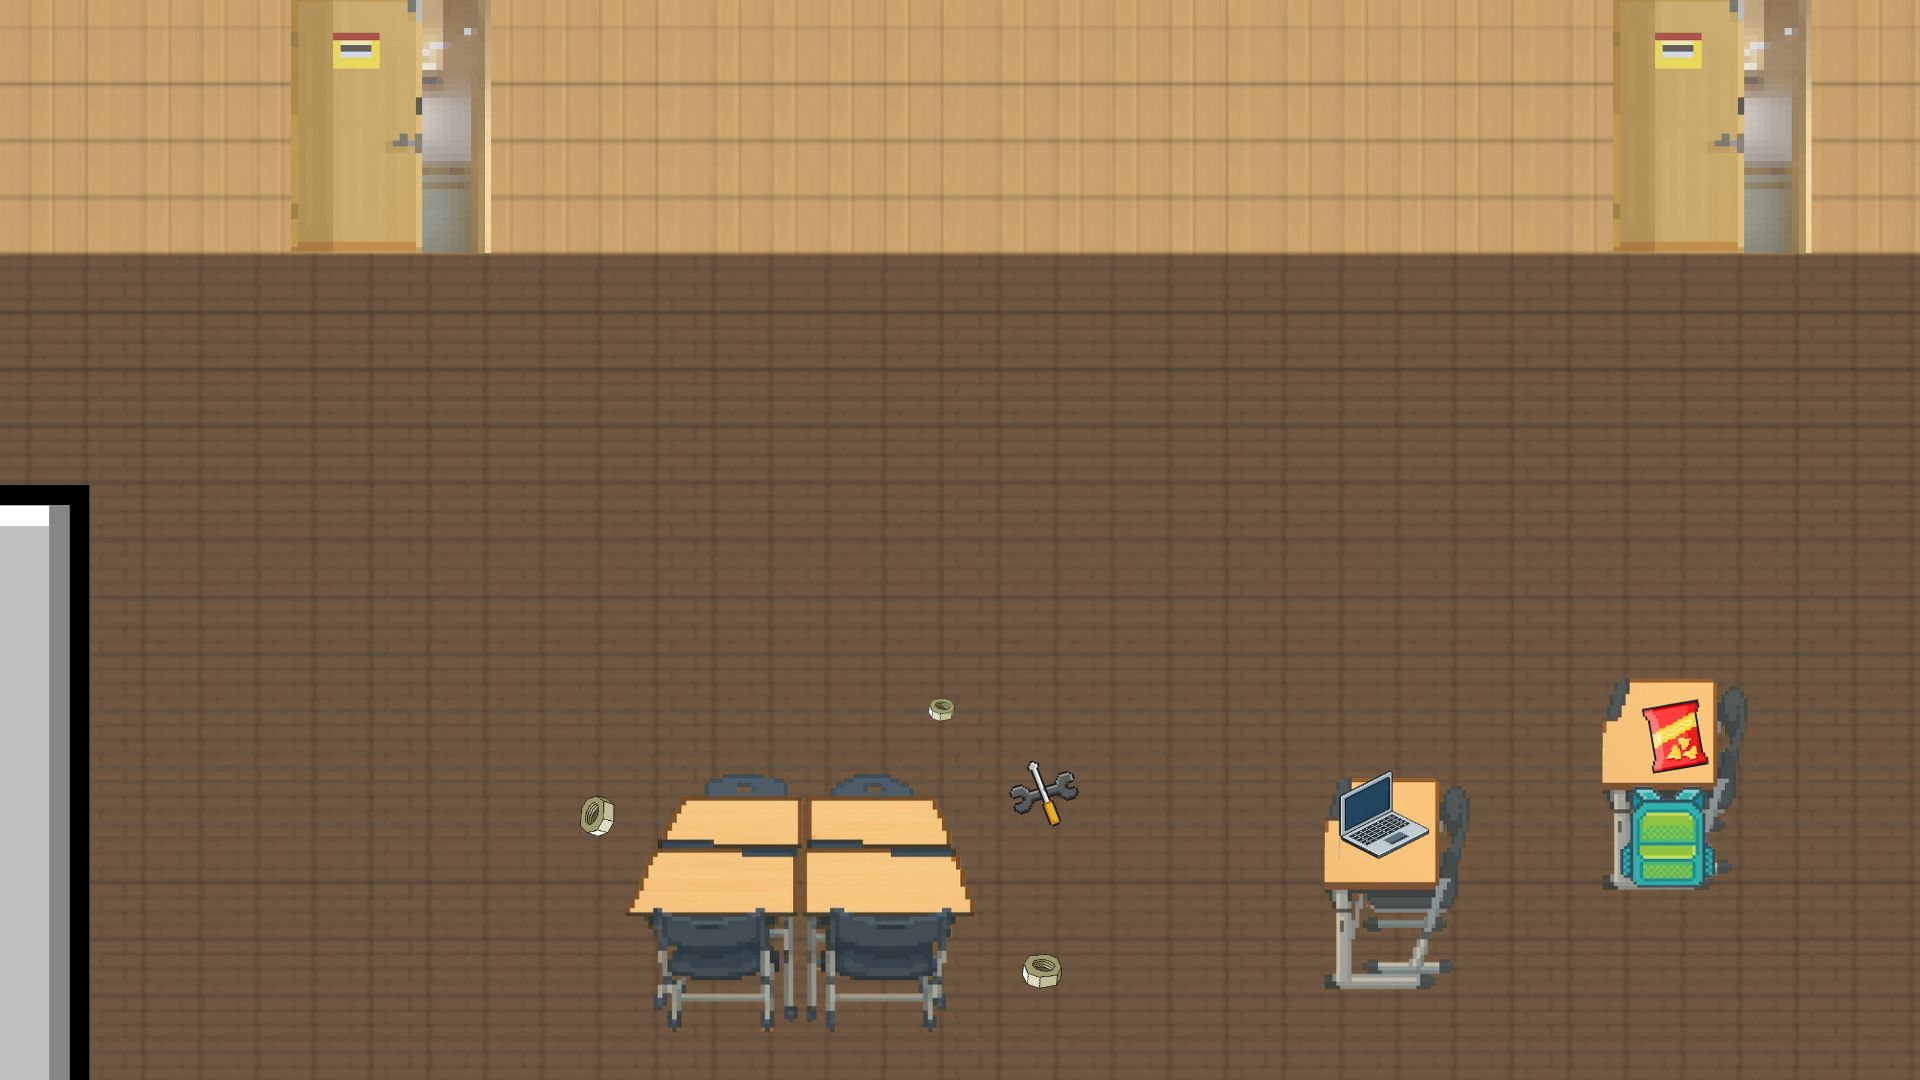
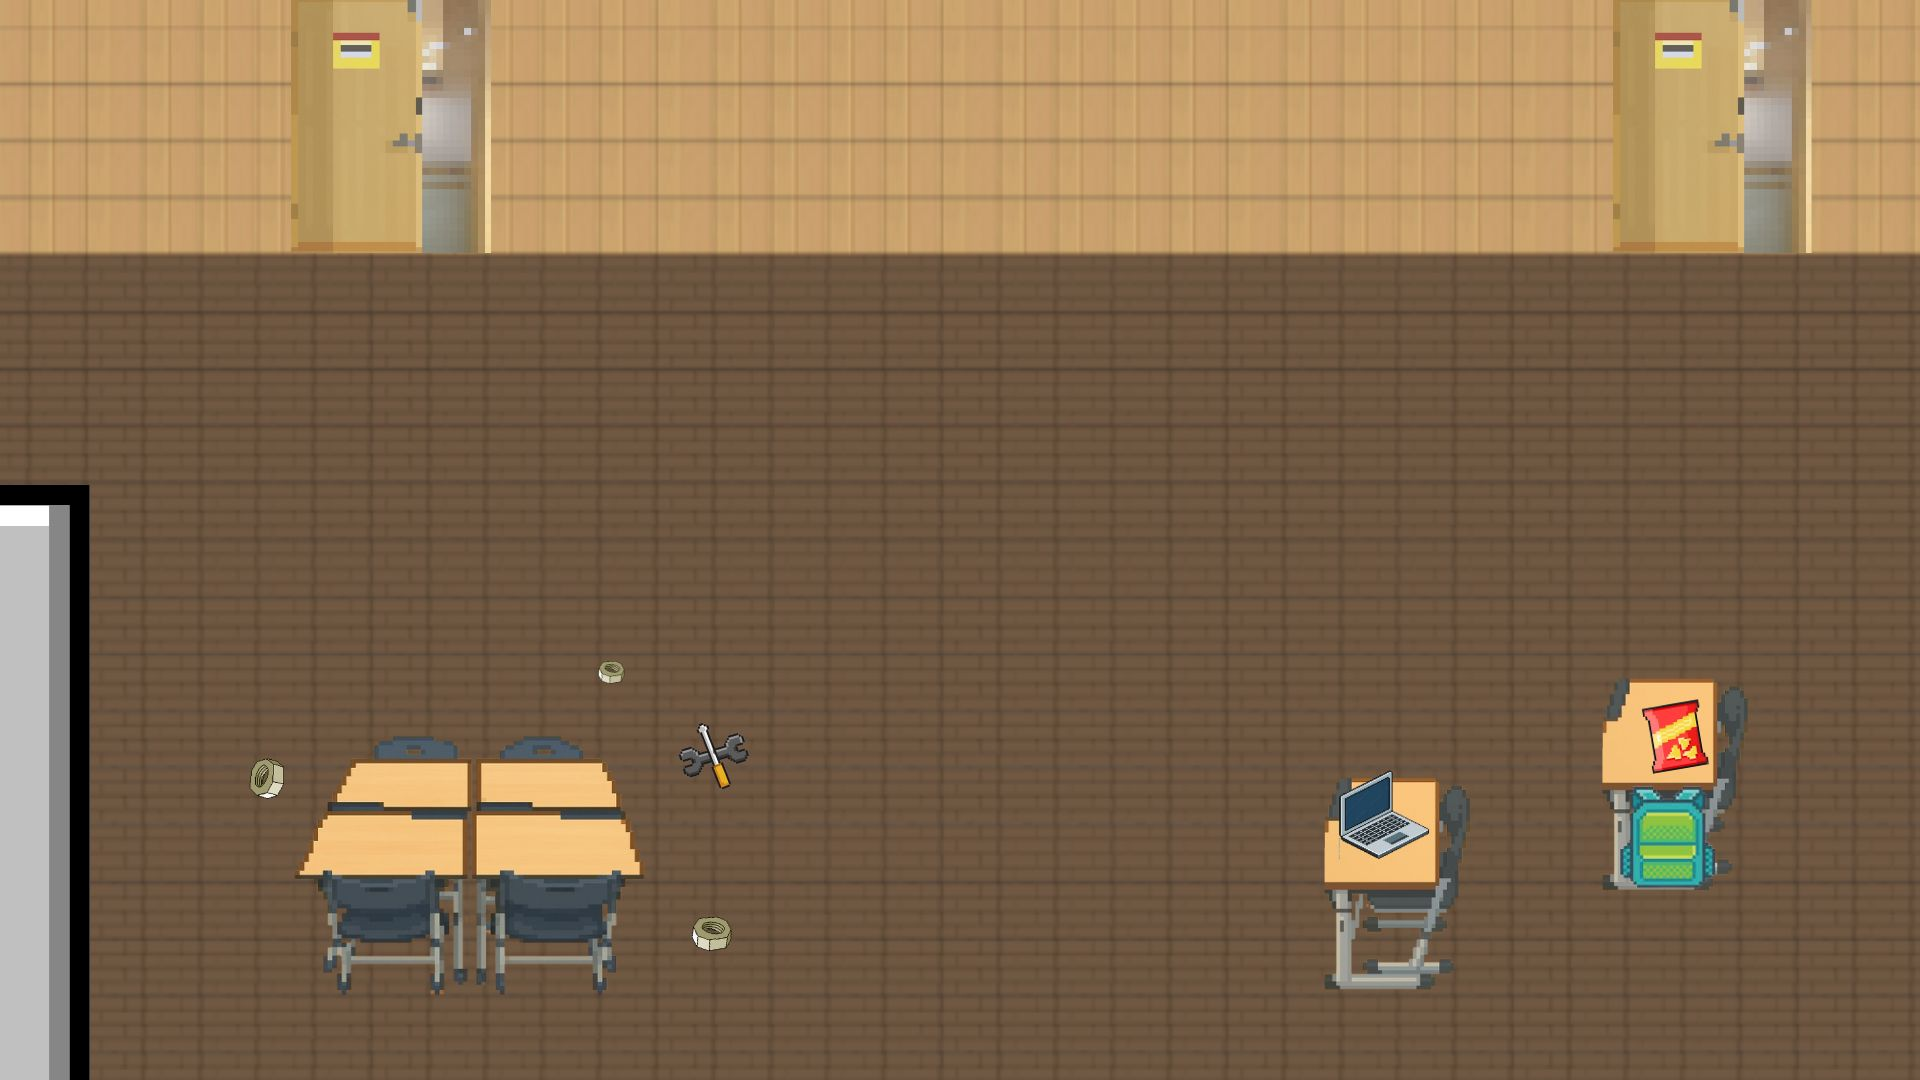
최종_오류해결1

diff --git a/public/minigames/cardGame.js b/public/minigames/cardGame.js
@@ -18,8 +18,8 @@ scoreDisplay.id = "scoreDisplay";
 scoreDisplay.innerHTML = `<div id="score">Score: 0.0s</div>`;
 Object.assign(scoreDisplay.style, {
   position: "absolute",
-  left: `300px`,
-  top: `50px`,
+  left: `20px`,
+  top: `20px`,
   backgroundColor: "rgba(255, 255, 255, 0.9)",
   padding: "10px",
   border: "2px solid #333",
@@ -34,21 +34,25 @@ Object.assign(scoreDisplay.style, {
 const startContainer = document.createElement("div");
 startContainer.id = "startContainer";
 startContainer.innerHTML = `
-  <p>게임을 시작하려면 버튼을 누르세요</p>
-  <button id="startGameBtn">Start</button>`;
-Object.assign(startContainer.style, {
-  position: "absolute",
-  left: `50%`,
-  top: `50%`,
-  transform: "translate(-50%, -50%)",
-  backgroundColor: "rgba(255, 255, 255, 0.9)",
-  padding: "10px",
-  border: "2px solid #333",
-  borderRadius: "5px",
-  textAlign: "center",
-  fontSize: "16px",
-  color: "#000",
-  zIndex: "1000"
+    <p id ='title'>생활관 선생님이 던지시는 벌점 카드를 피해야 합니다!</p>
+    <p class = 'text'>지난날 다 먹은 라면 용기를 들켰던 당신.</p>
+    <p class = 'text'>어제는 벌점을 피했었지만 오늘은 빠져나가지 못했습니다ㅠ</p>
+    <p class = 'text'>날아오는 벌점카드를 피해 5초간 살아남으세요!</p>
+    <button id="startGameBtn">Start</button>`;
+startContainer.classList.add("scoreDisplay");
+ Object.assign(startContainer.style, {
+    position: 'absolute',
+    left: '50%',
+    top: '50%',
+    transform: 'translate(-50%, -50%)',
+    backgroundColor: "rgba(255, 255, 255, 0.9)",
+    padding: "10px",
+    border: "2px solid #333",
+    borderRadius: "5px",
+    textAlign: "center",
+    fontSize: "16px",
+    color: "#000",
+    zIndex: "1000"
 });
 
 // 게임 종료 메시지

diff --git a/public/minigames/robot.js b/public/minigames/robot.js
@@ -95,9 +95,9 @@ export class HiddenObject extends Block {
 
 
 export let interaction = [
-    new HiddenObject(940, 300, 100,100,'sahur',null, '로봇 조립을 방해하던 "퉁퉁퉁퉁퉁퉁 사후르"를 찾았습니다!',"/images/sahur.jpg"),
-    new HiddenObject(860,500,50,100,'tralalelo',null,'로봇 조립을 방해하던 "트랄라레로 트랄랄라"를 찾았습니다!','/images/tralalelo.jpg'),
-    new HiddenObject(1020, 450, 50, 100, 'hambook',null, '로봇 조립을 방해하던"햄부기햄북 햄북어 햄북스딱스 함부르크햄부가우가 햄비기햄부거 햄부가티햄부기온앤 온"을 차려왔습니다!','/images/hambook.jpg')
+    new HiddenObject(966, 210, 40, 70,'sahur',null, '로봇 조립을 방해하던 "퉁퉁퉁퉁퉁퉁 사후르"를 찾았습니다!',"/images/sahur.png"),
+    new HiddenObject(747,217,180,180,'tralalelo',null,'로봇 조립을 방해하던 "트랄라레로 트랄랄라"를 찾았습니다!','/images/tralalelo.png'),
+    new HiddenObject(801, 505, 70, 70, 'hambook',null, '로봇 조립을 방해하던"햄부기햄북 햄북어 햄북스딱스 함부르크햄부가우가 햄비기햄부거 햄부가티햄부기온앤 온"을 차려왔습니다!','/images/hambook.png')
 ];
 
 // -----------------------------------------------------------

diff --git a/public/minigames/closetGame.js b/public/minigames/closetGame.js
@@ -22,17 +22,19 @@ const scoreDisplay = document.createElement("div");
 scoreDisplay.id = "scoreDisplay";
 scoreDisplay.innerHTML = `<div id="score">Score: 0</div>`;
 scoreDisplay.classList.add('scoreDisplay');
-scoreDisplay.style.position = "absolute";
-scoreDisplay.style.left = `${canvasRect.left + 40}px`;
-scoreDisplay.style.top = `${canvasRect.top + 20}px`;
-scoreDisplay.style.backgroundColor = "rgba(255, 255, 255, 0.9)";
-scoreDisplay.style.padding = "10px";
-scoreDisplay.style.border = "2px solid #333";
-scoreDisplay.style.borderRadius = "5px";
-scoreDisplay.style.textAlign = "center";
-scoreDisplay.style.fontSize = "20px";
-scoreDisplay.style.color = "#000";
-scoreDisplay.style.zIndex = "1000";
+Object.assign(scoreDisplay.style, {
+  position: "absolute",
+  left: `20%`,
+  top: `10%`,
+  backgroundColor: "rgba(255, 255, 255, 0.9)",
+  padding: "10px",
+  border: "2px solid #333",
+  borderRadius: "5px",
+  textAlign: "center",
+  fontSize: "20px",
+  color: "#000",
+  zIndex: "1000"
+});
 
 // 시작 안내창 DOM
 const startContainer = document.createElement("div");

diff --git a/public/npc/card.js b/public/npc/card.js
@@ -40,7 +40,8 @@ const situationPrompt =
 - 용서 하는 경우가 아니라면 "다녀오세요"라는 말을 대화에 넣지 않는다. 
 - 규칙 위반 시: 조용히 지적한다.
 - 주제는 계속해서 기숙사 내 라면 취식으로 유지하며, 학생이 주제 외 이야기를 하면 혼낸다. 
-- 웬만해서는 벌점을 부과한다. 
+- 웬만해서는 벌점을 부과한다. 벌점을 부과하면 다녀오세요라는 말을 사용하면 안된다. 
+- 학생이 죄송하다고 말해도 웬만하면 벌점을 부과한다. 
 - 학생이 벌점 부과를 인정하면 라면 취식이 다른 룸메이트들에게 피해가 간다는 걸 지적하며 마저 혼낸다
 
 대화 상황:

diff --git a/public/maps/classroom.js b/public/maps/classroom.js
@@ -5,7 +5,7 @@ export const obstacles = [
     new Block(350,0,1000,175, "upper wall(r)"), 
     new Block(0,330,50,500, "blackboard"),
     // new Block(190, 375, 90, 150, "table_1"),
-    new Block(430, 520, 210, 200, "table_group"),
+    new Block(180, 520, 210, 200, "table_group"),
     new Block(880, 500, 90, 160,"table_2"),
     new Block(1065, 450, 100, 160, "table_3"),
     new Block(610,130,160,160,"robot"),

diff --git a/public/maps/classroomHallway.js b/public/maps/classroomHallway.js
@@ -2,8 +2,8 @@ import { Block } from "./block.js";
 
 export const obstacles = [
     new Block(0,0,1280,350,"wall"),
-    new Block(0,600,1100,120,'underWall(l,c)'),
-    new Block(1100,600,180,120,'underWall(r)'),
+    // new Block(0,600,1100,120,'underWall(l,c)'),
+    // new Block(1100,600,180,120,'underWall(r)'),
     new Block(965,370,30,100,'teacher npc',null,null,null,4)
 ]
 

diff --git a/public/player.js b/public/player.js
@@ -176,14 +176,14 @@ const playerState = {//맵 별로 초기 시작 위치 다르게 설정 가능
 }
 
 export let player = {
-    state : "dorm",
+    state : "classroom",
     mode: "",
     x : 800,
     y: 500,
     width : 80,
     height: 80,
     speed : 10,
-    key: 11,
+    key: 10,
     interaction:true,
     dirX:0,
     dirY:0,

diff --git a/public/maps/studyRoom.js b/public/maps/studyRoom.js
@@ -6,7 +6,7 @@ export const obstacles = [
     new Block(870,70,230,420,'desk(r)'),
     new Block(0,620,200,100,'underWall(l)'),
     new Block(400,620,880,100,'underWall(r)'),
-    new Block(150,530,20,20,'friend'),
+    new Block(150,530,5,20,'friend'),
 
 ]
 export const interaction = [

diff --git a/public/maps/maps.js b/public/maps/maps.js
@@ -76,7 +76,6 @@ export function drawMap(ctx, canvas, player){
     // }
     for (let i of maplist[player.state].interaction){
         if((player.key == i.key||i.key==-1)&&(i.imgLoaded)){
-            console.log(`obj image: ${i.name}`)
         i.drawObj(ctx)
         }
     }

diff --git a/public/maps/block.js b/public/maps/block.js
@@ -23,7 +23,6 @@ export class Block {
 
     drawObj(ctx){
         if(this.imgLoaded)
-            console.log(this.imageSrc)
             ctx.drawImage(this.img,this.x,this.y, this.width, this.height)
     }
 
